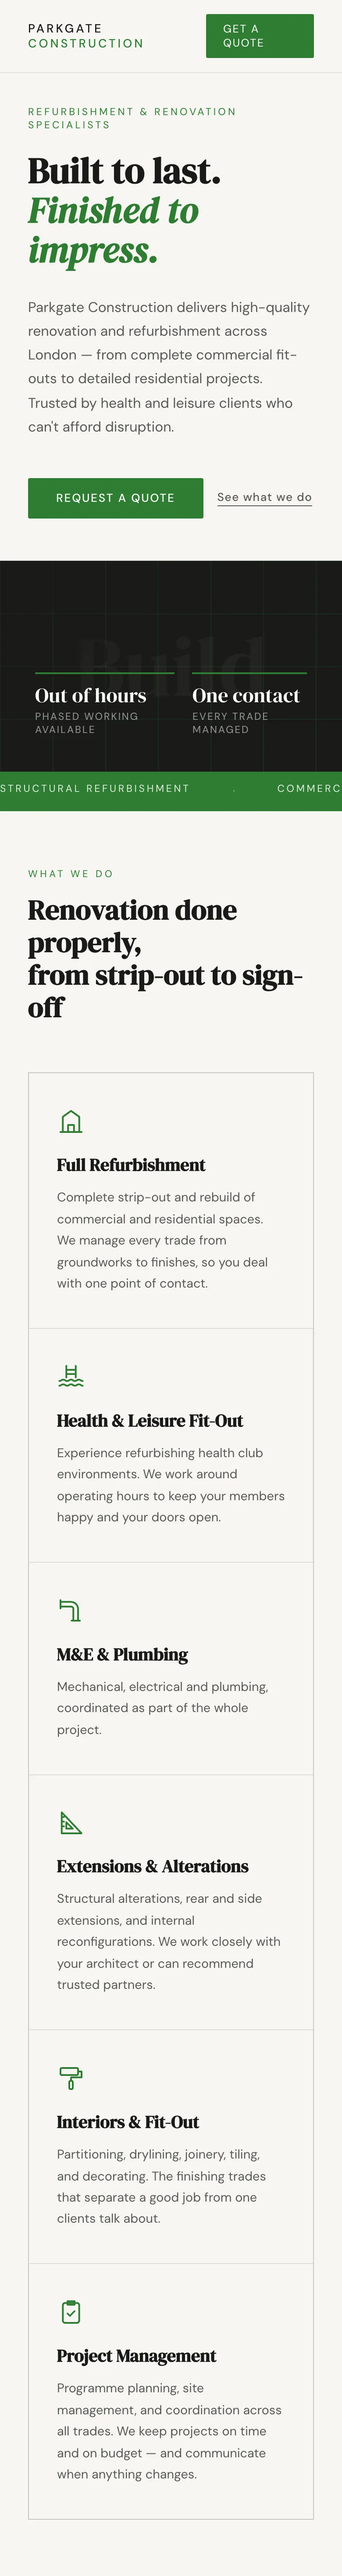
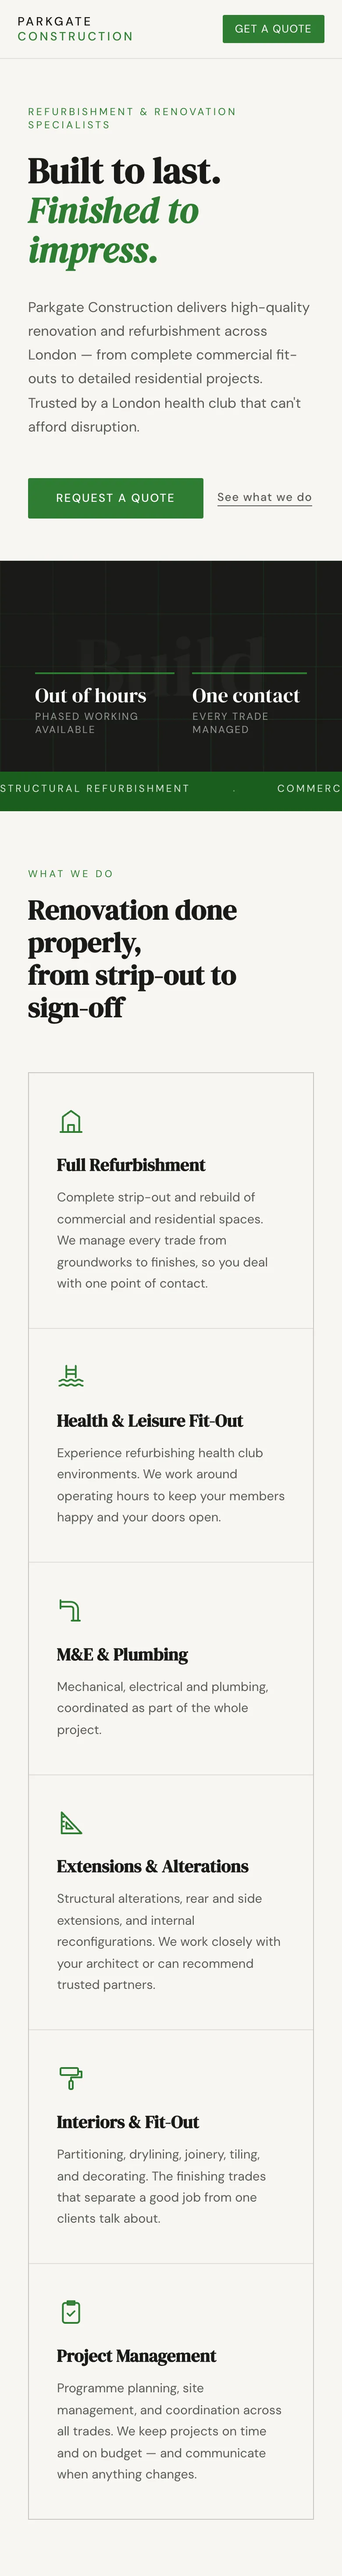
chore: recapture parkgate after live-site fix

diff --git a/work/parkgate/index.html b/work/parkgate/index.html
@@ -777,7 +777,8 @@
     </header>
 
     <!-- The five parts of the story, in the order BUILD-PLAN gives them.
-         All copy is word for word from BUILD-PLAN's Content section. -->
+         All copy is word for word from BUILD-PLAN's Content section,
+         the screenshots' alt text included. -->
     <main>
       <section id="brief" class="reveal">
         <div class="container">
@@ -817,11 +818,14 @@
       </section>
 
       <!-- WHAT SHIPPED: teal in both themes, echoing the home page's Make
-           band. The captures are the live site's first screens.
-           Each frame is a link to the whole capture, and its caption says
-           so where everyone can see it. aria-describedby hands the same
-           words to screen readers: they announce the image's alt text as
-           the link's name, then the caption's note on what it opens. -->
+           band. Each capture runs from the top of the live site to the
+           bottom of its "What we do" section, but its frame shows only
+           the first screen. Each frame is a link to the whole capture,
+           and its caption says so where everyone can see it.
+           aria-describedby hands the same words to screen readers: they
+           announce the image's alt text as the link's name, then the
+           caption's note on what it opens. That is why the alt text is
+           short and describes only what the frame shows. -->
       <section id="shipped" class="reveal">
         <div class="container">
           <h2>What shipped</h2>
@@ -831,14 +835,14 @@
             <figure class="shot shot--desktop">
               <a class="shot-frame" href="../../images/parkgate/parkgate-desktop-1440.webp" aria-describedby="shot-desktop-hint">
                 <img src="../../images/parkgate/parkgate-desktop-1440.webp" width="1440" height="1925" loading="lazy" decoding="async"
-                     alt="The Parkgate Construction homepage on a desktop screen: a cream panel with the headline 'Built to last. Finished to impress.' in black and green serif type and a green 'Request a quote' button, beside a dark panel with a faint architectural grid and two short statements about how the firm works. Below, a green strip of services and six service cards, each with a simple line icon.">
+                     alt="Parkgate Construction homepage on desktop: the headline 'Built to last. Finished to impress.' beside a dark grid panel.">
               </a>
               <figcaption>Desktop · 1440px · <span id="shot-desktop-hint">opens the full-size image</span></figcaption>
             </figure>
             <figure class="shot shot--phone">
               <a class="shot-frame" href="../../images/parkgate/parkgate-phone-390.webp" aria-describedby="shot-phone-hint">
                 <img src="../../images/parkgate/parkgate-phone-390.webp" width="780" height="5862" loading="lazy" decoding="async"
-                     alt="The same homepage on a phone: the Parkgate Construction wordmark and a green 'Get a quote' button above the headline, introduction and 'Request a quote' button, followed by the dark panel's short statements and the six service cards stacked, each with a simple line icon.">
+                     alt="Parkgate Construction homepage on a phone: the headline, introduction and green 'Request a quote' button.">
               </a>
               <figcaption>Phone · 390px · <span id="shot-phone-hint">opens the full-size image</span></figcaption>
             </figure>

diff --git a/BUILD-PLAN.md b/BUILD-PLAN.md
@@ -74,8 +74,15 @@ Locked direction: **B rail + C monogram hero + A rhythm.** Playfair 600 headings
 
 ## M10 — Parkgate case study
 - [x] `/work/parkgate/index.html` sharing tokens + header
-- [x] Structure: brief → constraints → three decisions and why → what shipped → what next. Live-site captures, desktop 1440 + phone 390, full page, details solid-blocked as Emma marks. No "before": Parkgate had no website (decided 24 Sep).
+- [x] Structure: brief → constraints → three decisions and why → what shipped → what next. Live-site captures, desktop 1440 + phone 390, from the top of the page to the bottom of "What we do", details solid-blocked as Emma marks. No "before": Parkgate had no website (decided 24 Sep).
 - Decided 25 Sep: the claims were removed from the live site instead, so the captures carry no grey blocks.
+- Capture method (used 25 and 27 Sep):
+  - Before capturing, fetch the live HTML fresh (cache-buster; Netlify's `cache-status` should say `fwd=miss`) and check the removed claims are still gone. If any are back, list them and stop.
+  - Headless Chrome, driven over the DevTools Protocol pipe from a small Node script. In Claude Code it has to run outside the sandbox; inside, Chrome aborts.
+  - Desktop: viewport 1440×900 at device pixel ratio 1 → file 1440px wide. Phone: viewport 390×844 at ratio 2 → file 780px wide. The same ratios as the case page's frames (`--shot-ratio-desktop`, `--shot-ratio-phone`).
+  - Reduced motion on. Wait for fonts, scroll down to the bottom of "What we do" so every reveal fires, then back to the top and let it settle, so the fixed nav sits at the top.
+  - Crop at the bottom of `#services` ("What we do"). WebP, quality 80.
+  - Save to a scratch folder first. After Emma approves: replace the same filenames in `images/parkgate/`, set each `<img>` width/height from `sips -g pixelWidth -g pixelHeight`, and update the alt text below if what the frames show has changed.
 - Commit: `feat: parkgate case study`
 
 ## M10.5 — Shared base
@@ -160,6 +167,10 @@ A logo, business email on Google Workspace, a one-page website deployed on
 Netlify with the custom domain pointed via DNS, and a minimal invoice
 template that carries the brand, with green only in the wordmark. The
 owner was impressed with the site and happy with the wording.
+
+**Screenshot alt text** (What shipped; describes only what each frame shows)
+- Desktop: Parkgate Construction homepage on desktop: the headline 'Built to last. Finished to impress.' beside a dark grid panel.
+- Phone: Parkgate Construction homepage on a phone: the headline, introduction and green 'Request a quote' button.
 
 **What's next**
 Say less. Seeing his business live on the web was a lot for the owner, so the first revision took things away: the phone number came off in favour of email, placeholder figures became plain statements, and the emoji icons became simple line icons in the brand green. Enquiries from the form now land in the business inbox. Next, I'd set up shared access from day one, so fixes and invoices don't wait on a single laptop.
